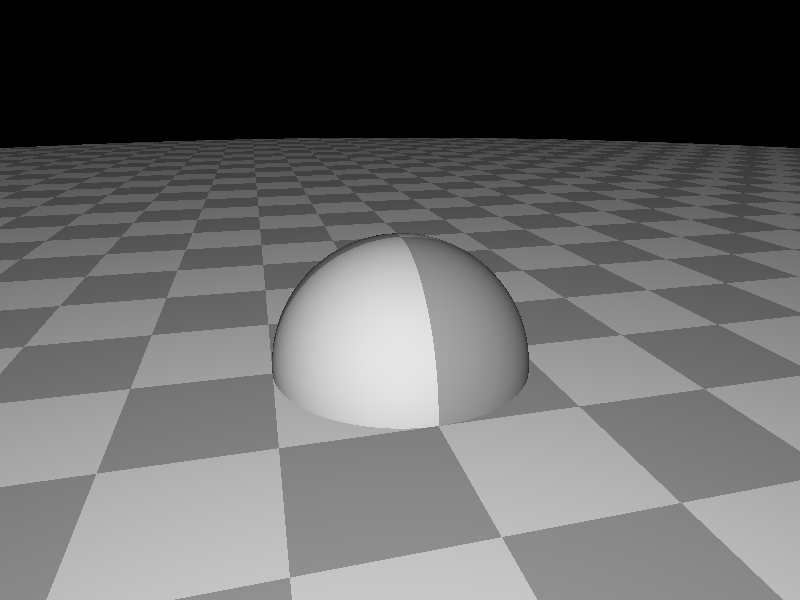
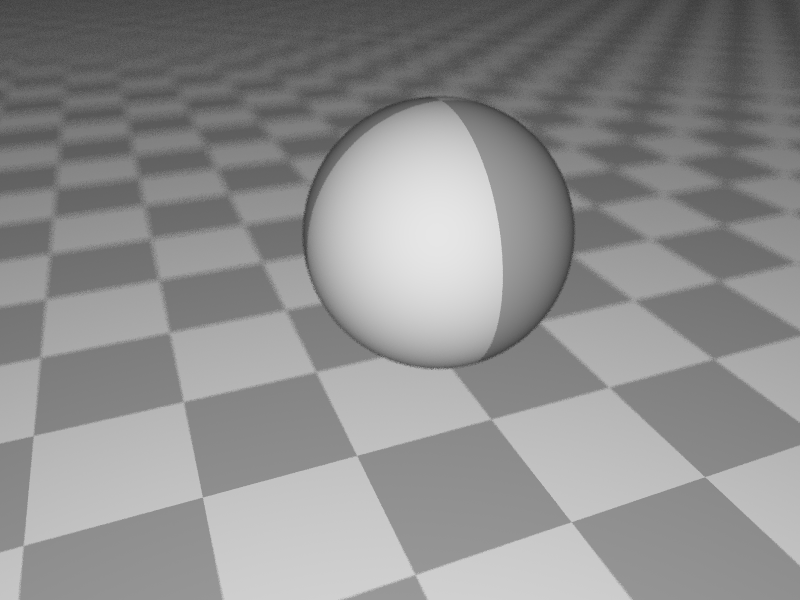
Implement depth of field

diff --git a/src/camera.rs b/src/camera.rs
@@ -1,5 +1,6 @@
 use math::*;
 use ray::Ray;
+use rand::{XorShiftRng, Rng};
 
 pub struct Camera {
     camera_to_world: Matrix4<f32>, raster_to_camera: Matrix4<f32>,
@@ -27,13 +28,21 @@ impl Camera {
         self.aperture_size = size; self.focal_distance = distance; self
     }
 
-    pub fn generate_ray(&self, raster_x: f32, raster_y: f32) -> Ray {
+    pub fn generate_ray(&self, raster_x: f32, raster_y: f32, rng: &mut XorShiftRng) -> Ray {
         let camera_dir = self.raster_to_camera.transform_point(
             Point3::new(raster_x, raster_y, -1.0)
         ).to_vec().mul_element_wise(Vector3::new(self.scale, self.scale, 1.0));
+
+        let camera_pos = Point3::new(
+            (rng.next_f32() - 0.5) * 2.0 * self.aperture_size,
+            (rng.next_f32() - 0.5) * 2.0 * self.aperture_size,
+            0.0
+        );
+        let camera_dir = (camera_dir * self.focal_distance - camera_pos.to_vec()).normalize();
+
         Ray {
-            origin: self.camera_to_world.transform_point(Point3::new(0.0, 0.0, 0.0)),
-            direction: self.camera_to_world.transform_vector(camera_dir.normalize())
+            origin: self.camera_to_world.transform_point(camera_pos),
+            direction: self.camera_to_world.transform_vector(camera_dir)
         }
     }
 }

diff --git a/src/main.rs b/src/main.rs
@@ -12,19 +12,19 @@ use renderer::Renderer;
 fn main() {
     let mut scene = Scene::new(
         Camera::new(Matrix4::look_at(
-            Point3::new(-1.0, -4.0, 2.0),
-            Point3::new(0.0, 0.0, 0.5),
+            Point3::new(-2.0, -4.3, 3.2),
+            Point3::new(-0.3, 0.0, 0.5),
             Vector3::unit_z()
-        ).invert().unwrap(), 800, 600).fov(70.0).dof(3.0, 0.1)
+        ).invert().unwrap(), 800, 600).fov(60.0).dof(4.3, 0.06)
     );
 
     scene.add(Object::new(
         Rc::new(Sphere::new(1.0)),
         Rc::new(Diffuse::new(Rc::new(XYZ::new(0.7, 0.7, 0.7)), Rc::new(0.0)))
-    ));
+    ).transform(Matrix4::from_translation(Vector3::unit_z() * 1.0)));
 
     scene.add(Object::new(
-        Rc::new(Disk::new(24.0)),
+        Rc::new(Disk::new(32.0)),
         Rc::new(Diffuse::new(Rc::new(XYZ::new(0.7, 0.7, 0.7)), Rc::new(0.0)))
     ));
 

diff --git a/src/renderer.rs b/src/renderer.rs
@@ -57,7 +57,7 @@ impl Renderer {
 
             for y in 0..self.height { for x in 0..self.width {
                 let pixel = &mut buffer[y * self.width + x];
-                let ray = self.scene.camera.generate_ray(x as f32, y as f32);
+                let ray = self.scene.camera.generate_ray(x as f32 + rng.next_f32(), y as f32 + rng.next_f32(), &mut rng);
                 let color = self.radiance(&ray, &mut rng, 0);
                 *pixel = (*pixel * s as f32 + color) / (s as f32 + 1.0);
                 let c = pixel.to_srgb();

diff --git a/src/object.rs b/src/object.rs
@@ -17,6 +17,10 @@ impl Object {
         }
     }
 
+    pub fn transform(mut self, transform: Matrix4<f32>) -> Self {
+        self.transform = transform; self.transform_inv = transform.invert().unwrap(); self
+    }
+
     pub fn intersect(&self, ray: &Ray) -> Option<(Intersection, Rc<Material>)> {
         if let Some(mut hit) = self.geometry.intersect(&Ray {
             origin: self.transform_inv.transform_point(ray.origin),
